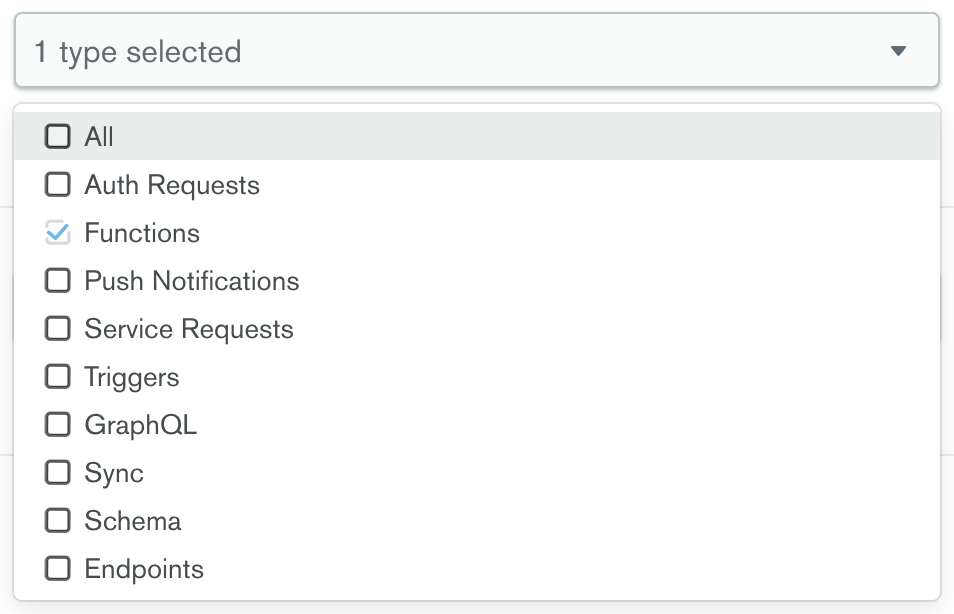
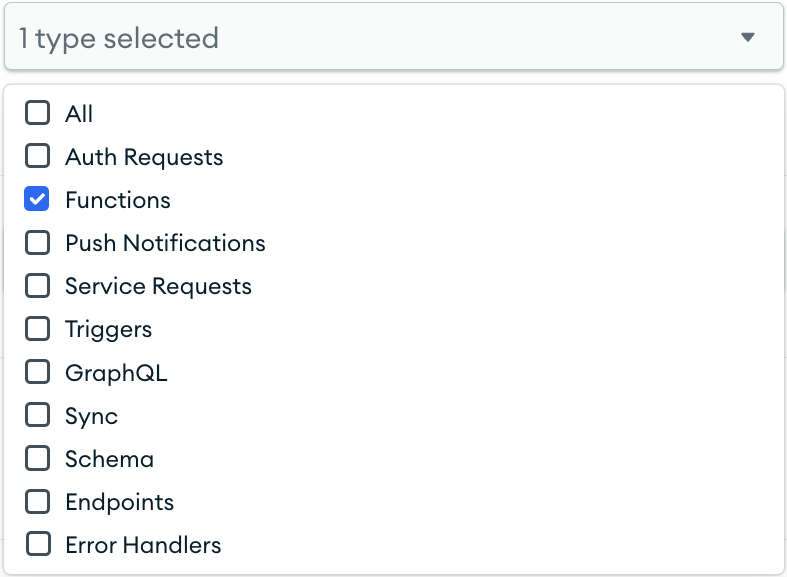
Update log forwarding UI image

Changed region(s): [[0.0, 0.0, 1.0, 0.9983]]

diff --git a/source/includes/log-forwarder-types.rst b/source/includes/log-forwarder-types.rst
@@ -7,4 +7,4 @@
 - ``service``
 - ``sync``
 - ``trigger``
-- ``errorhandler``
+- ``error_handler``
